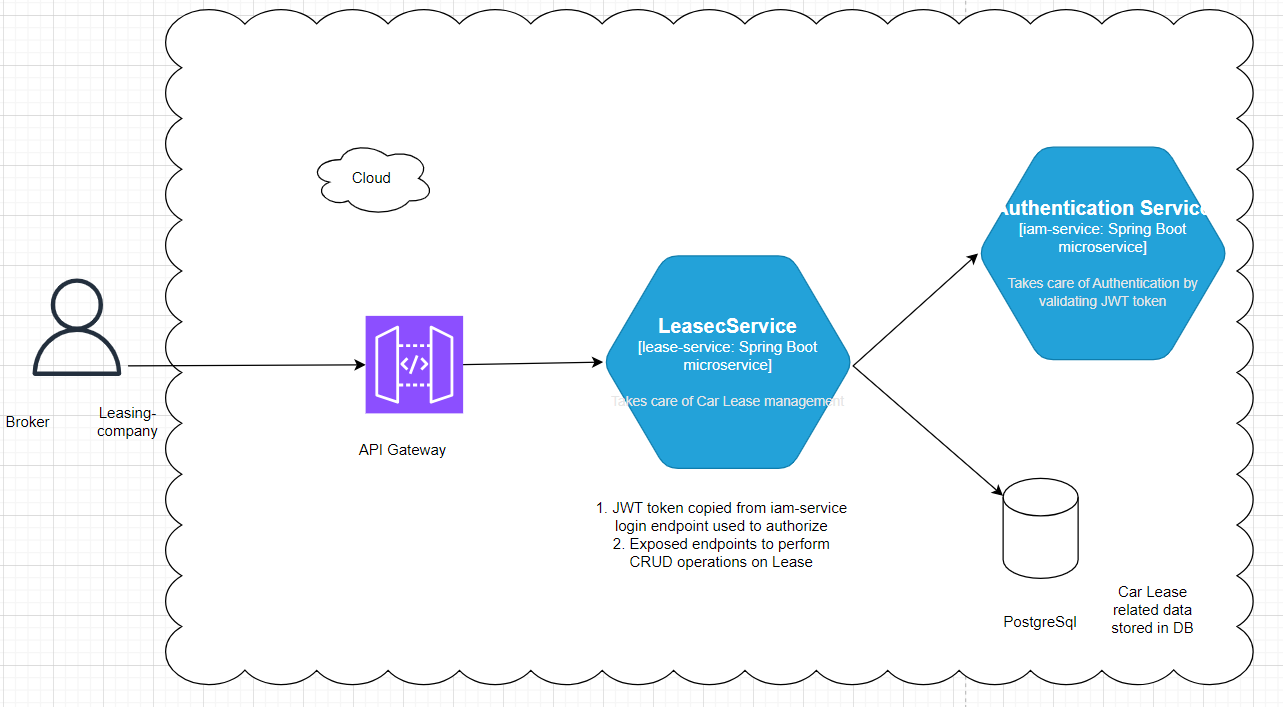
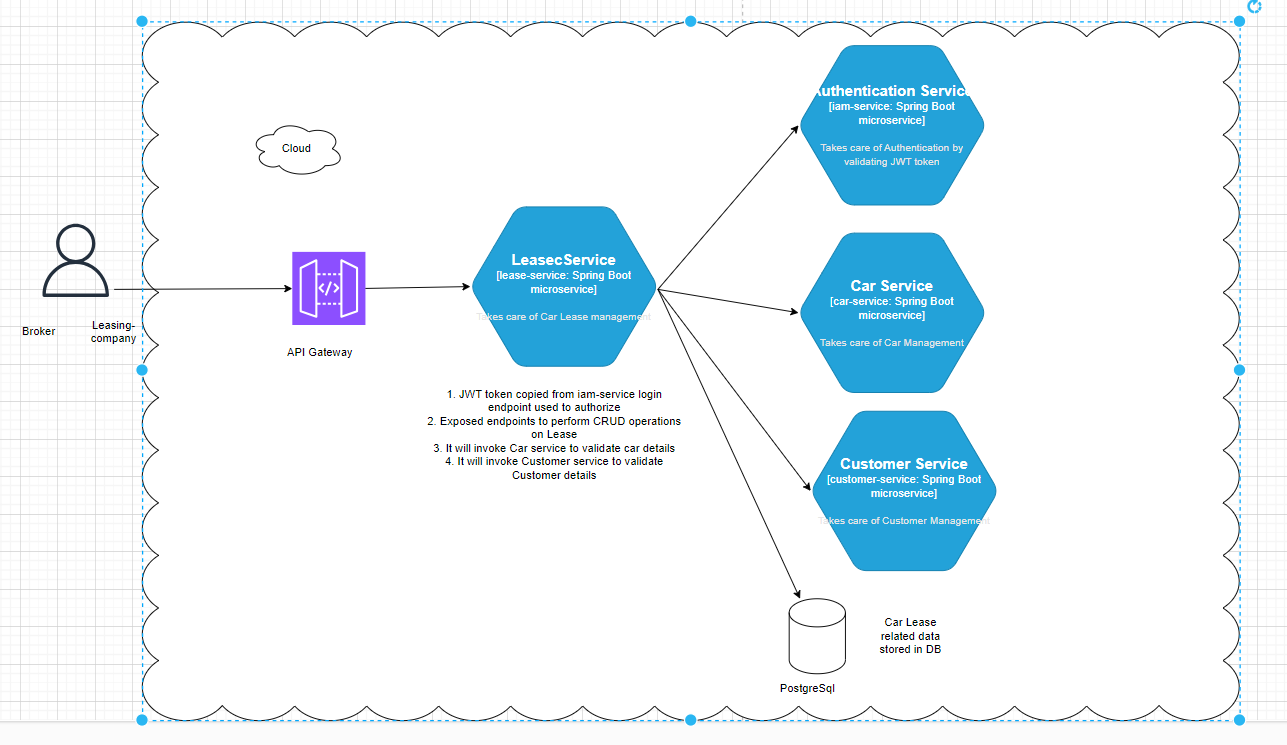
right image updated

diff --git a/README.md b/README.md
@@ -10,7 +10,7 @@ This service will invoke iam-service using Feign client to validate JWT token
 2. Click Authorize and give the jwt token  to execute needed endpoints
 
 # Architecture of this assessment(customer-service)
-![img_1.png](img_1.png)
+![img.png](img.png)
 
 # Technologies/Frameworks used in local
 1. InteliJ Latest version
